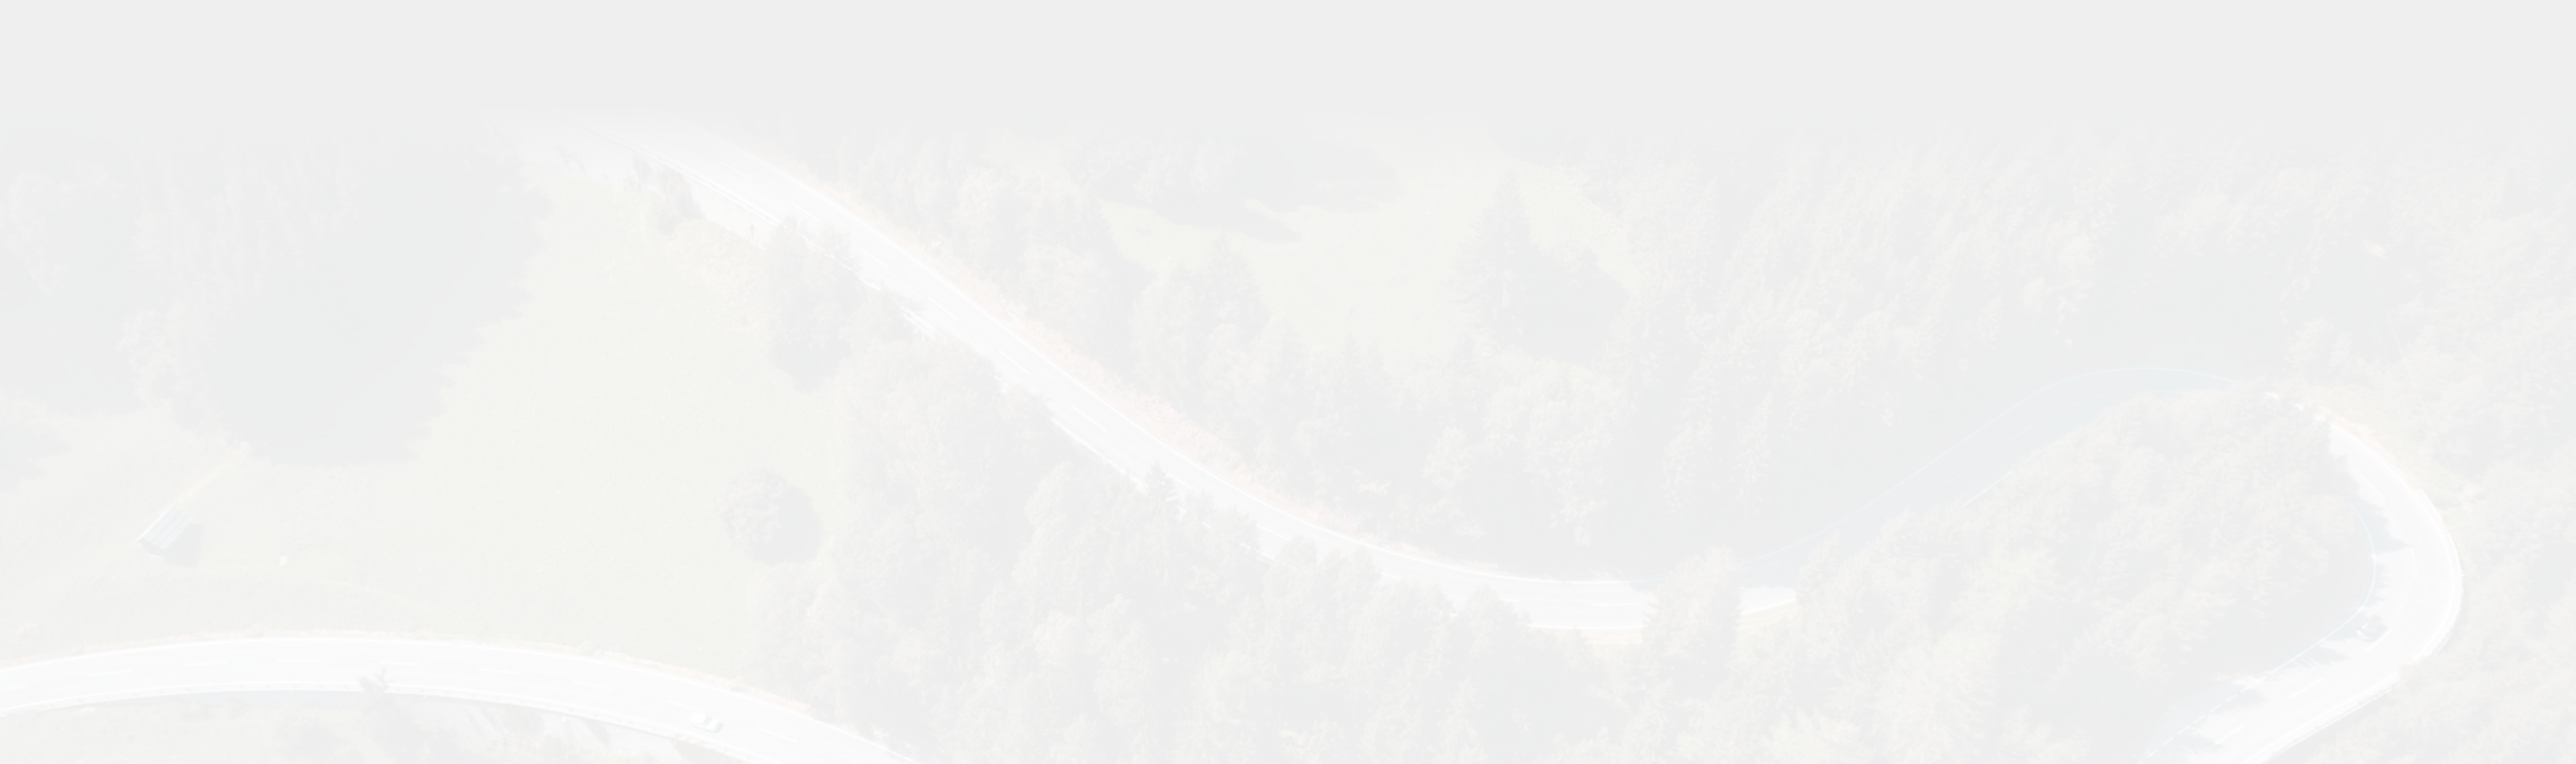
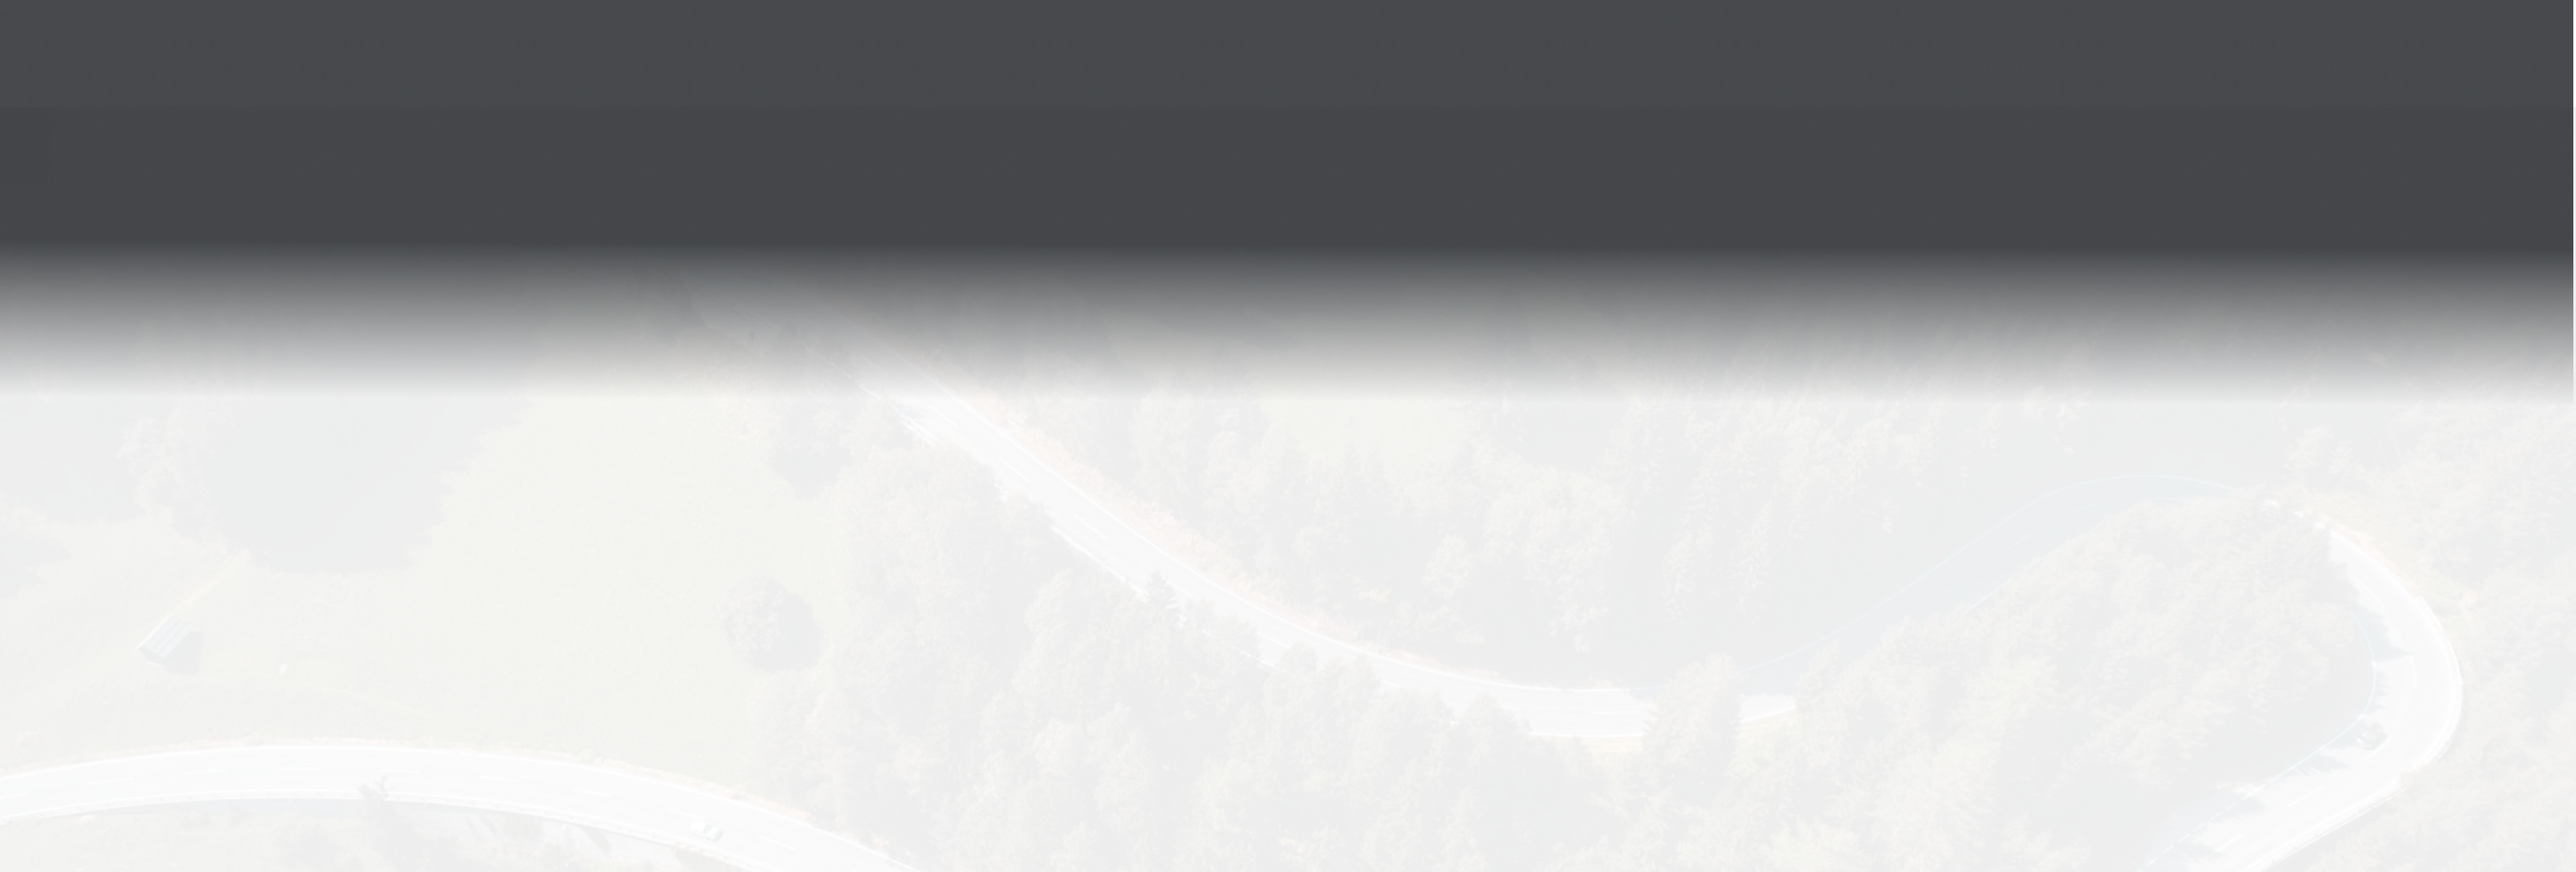
feat: contacts mobile version

diff --git a/src/scss/sections/_contact.scss b/src/scss/sections/_contact.scss
@@ -9,24 +9,49 @@
     &__title {
         text-transform: uppercase;
         font-weight: 500;
+
+        @include small-tablet{
+            margin-bottom: 8rem;
+            font-weight: 500;
+            font-size: 4rem;
+            line-height: 130%;
+            letter-spacing: 0.02em;
+            text-transform: uppercase;
+        }
     }
     // .contacts__wrapper
     &__wrapper {
         display: flex;
         flex-direction: column;
         gap: 4rem;
+
+        @include small-tablet{
+            flex-direction: column-reverse;
+            gap: 12rem;
+        }
     }
     // .contacts__footer
     &__footer {
         display: flex;
         align-items: center;
         justify-content: space-between;
+
+        @include small-tablet{
+            flex-direction: column;
+            gap: 4.8rem;
+        }
     }
     // .contacts__info
     &__info {
         display: flex;
         align-items: flex-start;
         gap: 4rem;
+
+        @include small-tablet{
+            flex-direction: column;
+            gap: 4.8rem;
+        }
+
         ul {
             min-width: 19.4rem;
             max-width: 30rem;
@@ -35,16 +60,38 @@
             flex-direction: column;
             gap: 1.6rem;
 
+            @include small-tablet{
+                max-width: 85%;
+                gap: 2.4rem;
+            }
+
             li {
                 font-size: 2rem;
                 line-height: 140%;
                 color: $white;
+
+                @include small-tablet{
+                    font-weight: 500;
+                    font-size: 3.6rem;
+                    line-height: 140%;
+                    display: flex;
+                    flex-direction: column;
+                    gap: 2.4rem;
+                }
 
                 span {
                     font-size: 2rem;
                     line-height: 110%;
                     text-transform: uppercase;
                     color: $gray;
+
+                    @include small-tablet{
+                        font-weight: 400;
+                        font-size: 3.2rem;
+                        line-height: 110%;
+                        text-transform: uppercase;
+                        color: #6f6f6f;
+                    }
                 }
 
                 a {
@@ -56,6 +103,11 @@
     &__form {
         align-self: flex-end;
         margin-top: -3rem;
+
+        @include small-tablet{
+            align-self: flex-start;
+            margin-top: 0;
+        }
     }
     // .contacts__map
     &__map {
@@ -66,6 +118,12 @@
         height: 58rem;
         background-color: $gray;
         z-index: 0;
+        
+        @include small-tablet{
+            position: initial;
+            height: 109rem;
+            margin-bottom: 7rem;
+        }
     }
 }
 .contact-form {
@@ -75,6 +133,28 @@
     min-height: 74.5rem;
     background: #24272a;
     // .contact-form__inner
+
+    &__btn {
+        @include small-tablet{
+            width: 100%;
+
+            button {
+                width: 100%;
+                padding: 3rem 6rem;
+            }
+        }
+    }
+
+    @include small-tablet{
+        width: 100%;
+    }
+
+    &__btn {
+        button {
+            padding: 2rem 6rem;
+        }
+    }
+
     &__inner {
         width: 100%;
         min-height: 74.5rem;
@@ -108,13 +188,28 @@
         position: relative;
         z-index: 1;
 
+        @include small-tablet{
+            gap: 7.5rem;
+        }
+
         input::placeholder,
         textarea::placeholder {
             text-transform: uppercase;
+
+            @include small-tablet{
+                font-size: 3rem;
+                line-height: 160%;
+                letter-spacing: 0.08em;
+                text-transform: uppercase;
+            }
         }
 
         textarea {
             height: 9.2rem;
+
+            @include small-tablet{
+                height: 14rem;
+            }
         }
     }
     // .contact-form__footer
@@ -123,6 +218,13 @@
         align-items: center;
         justify-content: space-between;
 
+        @include small-tablet{
+            flex-direction: column;
+            align-items: flex-start;
+            gap: 6.4rem;
+            margin-top: -2rem;
+        }
+
         p {
             font-weight: 400;
             font-size: 1.4rem;
@@ -130,6 +232,13 @@
             color: $gray;
 
             max-width: 24.6rem;
+
+            @include small-tablet{
+                max-width: 85%;
+                font-weight: 400;
+                font-size: 2.8rem;
+                line-height: 140%;
+            }
         }
     }
 }

diff --git a/src/home.html b/src/home.html
@@ -1,4 +1,4 @@
-<!DOCTYPE html>
+<!doctype html>
 <html lang="ru">
     <head>
         <meta charset="UTF-8" />
@@ -16,9 +16,9 @@
                 <include src="./components/_banner.html"></include>
                 <include src="./components/_advantages.html"></include>
                 <include src="./components/_author.html"></include>
-<!--                <include src="./components/_condition.html"></include>-->
-<!--                <include src="./components/_routes.html"></include>-->
-<!--                <include src="./components/_contact.html"></include>-->
+                <!--                <include src="./components/_condition.html"></include>-->
+                <!--                <include src="./components/_routes.html"></include>-->
+                <include src="./components/_contact.html"></include>
             </main>
             <include src="./components/footer.html"></include>
             <include src="./components/modals.html"></include>

diff --git a/src/components/_contact.html b/src/components/_contact.html
@@ -2,6 +2,7 @@
     <div class="container">
         <div class="contacts__inner">
             <h2 class="contacts__title h h_2">Свяжитесь с нами</h2>
+            <div class="contacts__map" id="contacts-map"></div>
             <div class="contacts__wrapper">
                 <article class="contact-form contacts__form">
                     <form class="contact-form__inner">
@@ -139,5 +140,4 @@
             </div>
         </div>
     </div>
-    <div class="contacts__map" id="contacts-map"></div>
 </section>

diff --git a/src/scss/dev/kie6er.scss b/src/scss/dev/kie6er.scss
@@ -21,6 +21,21 @@
     display: flex;
     align-items: center;
     gap: 1.6rem;
+
+    @include small-tablet {
+        gap: 2.4rem;
+        align-self: flex-start;
+
+        .icon {
+            width: 10.4rem;
+            height: 10.4rem;
+
+            svg {
+                width: 3.2rem;
+                height: 3.2rem;
+            }
+        }
+    }
 }
 
 [class*='--map-copyrights'] {

diff --git a/src/scss/sections/footer.scss b/src/scss/sections/footer.scss
@@ -6,7 +6,7 @@
             background: url('./assets/images/sections/footer/background.webp') no-repeat;
             background-size: cover;
             inset: 0;
-            top: -14rem;
+            top: -21rem;
             z-index: -1;
         }
     }
